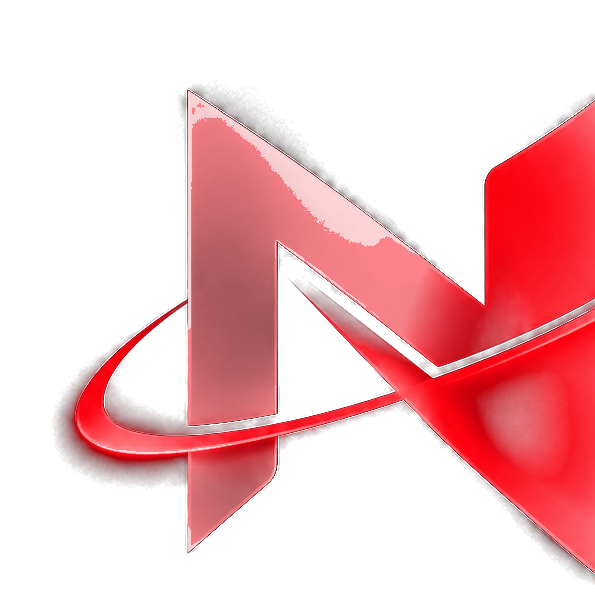
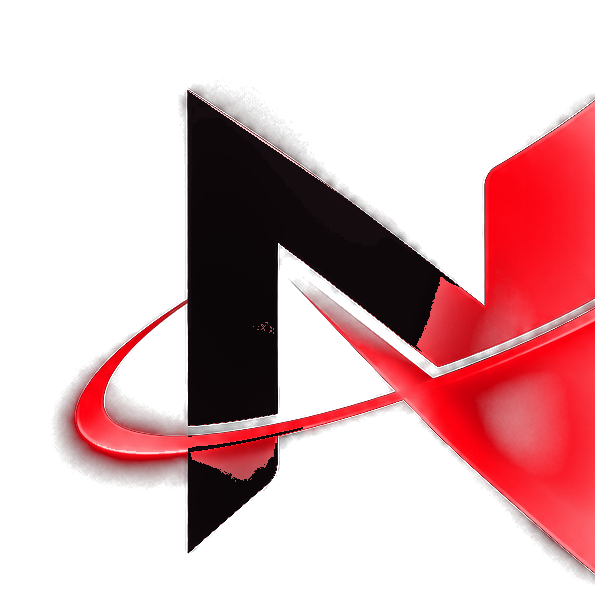
changes in Emblem

Changed region(s): [[0.3025, 0.1545, 0.7563, 0.8959]]

diff --git a/styles.css b/styles.css
@@ -114,3 +114,6 @@ footer nav button{border:0;background:transparent;color:#9da7bd;font:inherit;fon
 
 /* Quiet icon links for the footer social row. */
 .footer-socials{display:flex;align-items:center;gap:7px}.footer-socials a{width:31px;height:31px;display:grid;place-items:center;border:1px solid rgba(255,255,255,.08);border-radius:9px;background:rgba(255,255,255,.025);color:#8f9ab2;transition:border-color .22s,color .22s,background .22s}.footer-socials svg{width:14px;height:14px;fill:currentColor}.footer-socials a:hover{border-color:var(--line);background:var(--mode-glass);color:#e7eafb}@media(max-width:600px){footer{align-items:center;flex-wrap:wrap}.footer-socials{order:2}footer .footer-credit{order:3}footer .footer-copyright{order:4}}
+
+/* Preserve the black left peak in the Performance logo instead of screening it into the page. */
+body[data-mode=performance] [data-mode-logo]{mix-blend-mode:normal}
